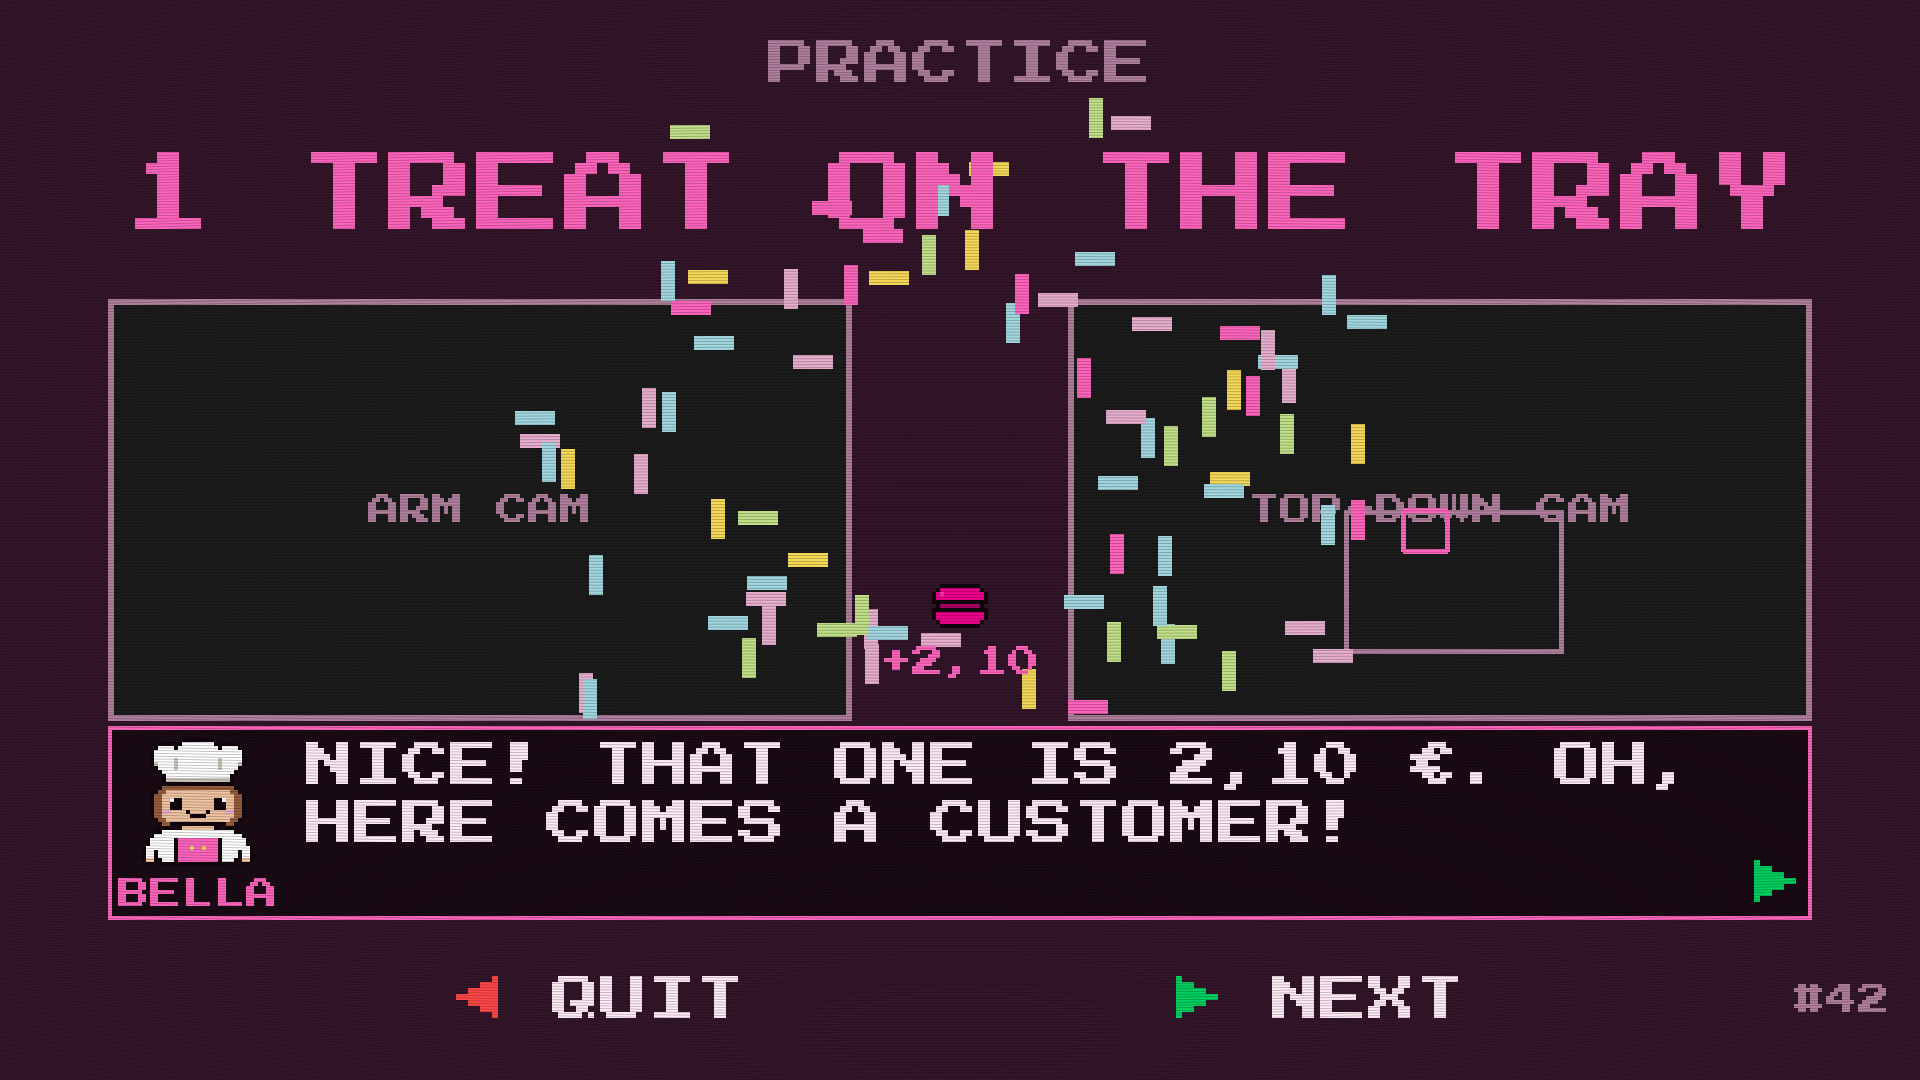
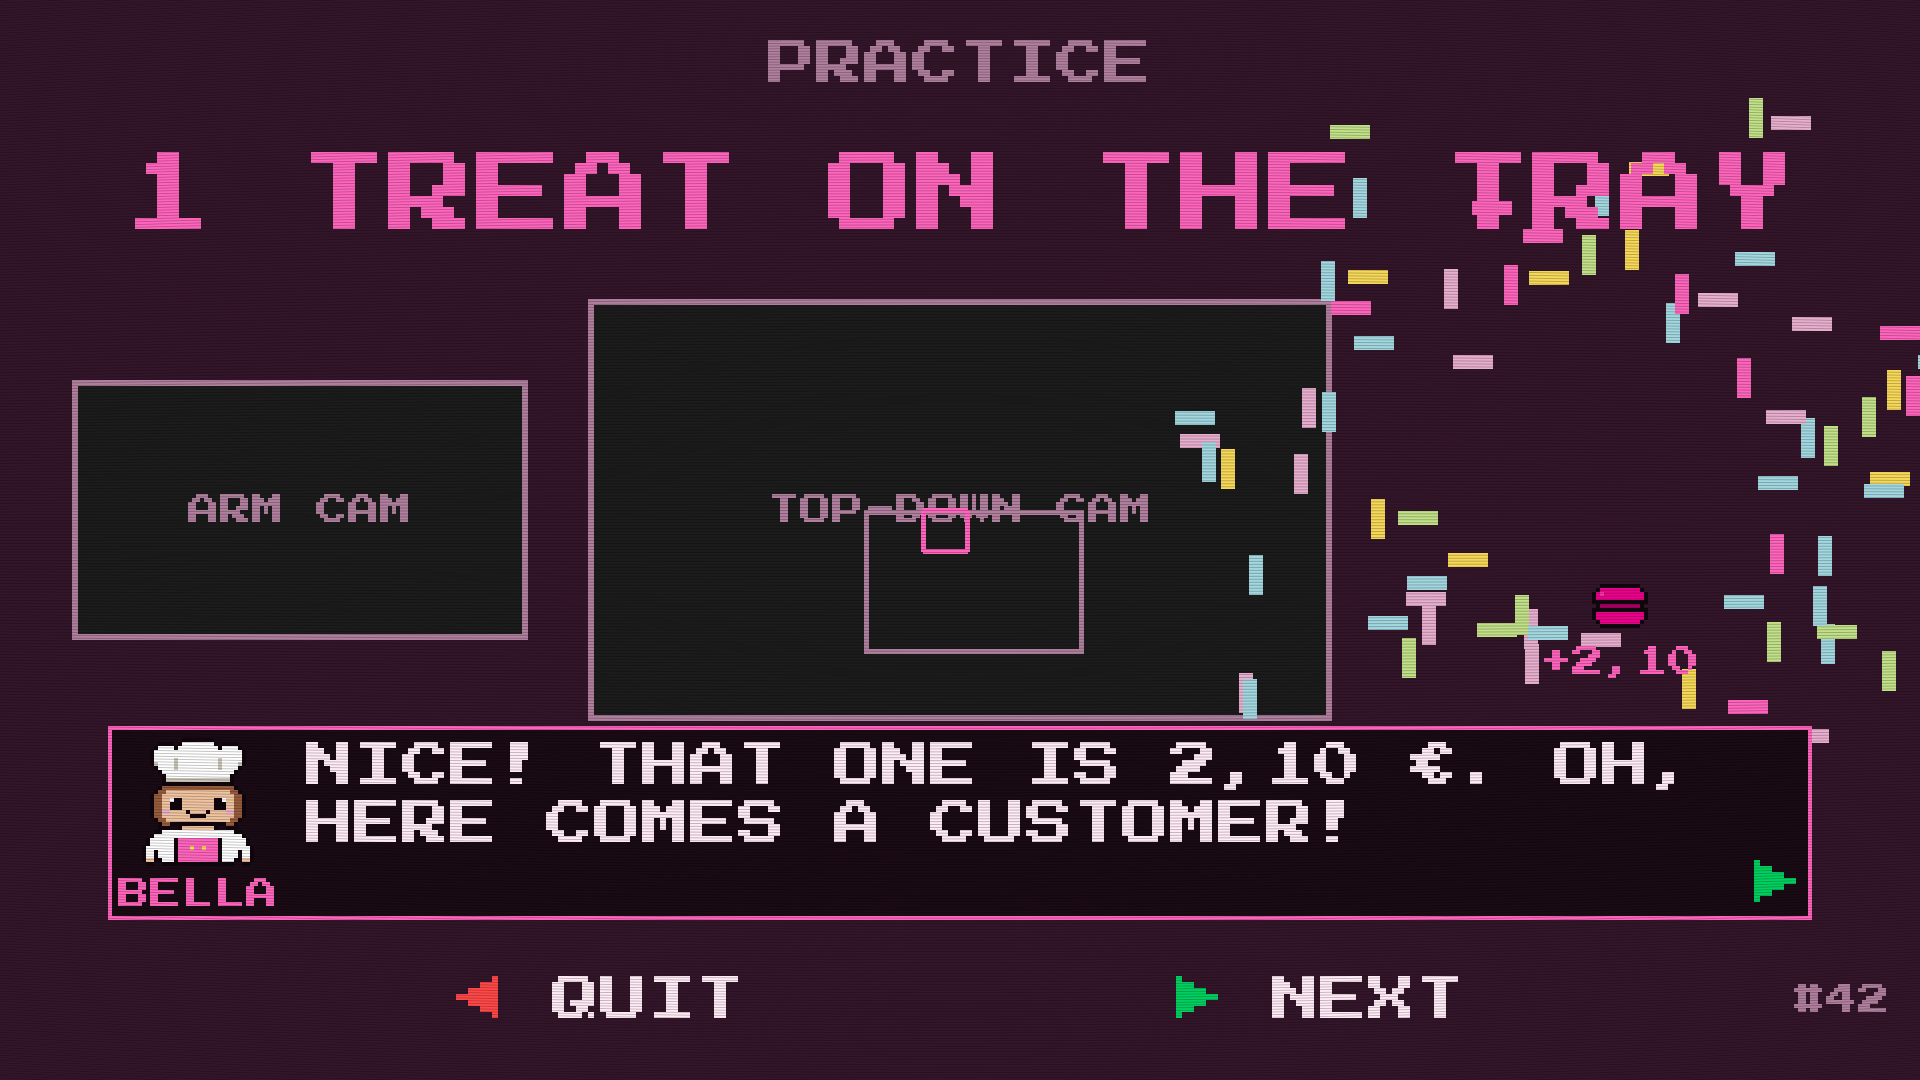
feat: top-down pane in the center, arm cam as a small inset (preview)

diff --git a/tools/shots.py b/tools/shots.py
@@ -28,7 +28,7 @@ import cv2                                                      # noqa: E402
 import pygame                                                   # noqa: E402
 from app import Ctx, crt_gain, px                               # noqa: E402
 from config import (WIDTH, HEIGHT, FONT_PATH, FONT_SIZES, CRT,  # noqa: E402
-                    BARREL_K, CAM_VIEW, GREY, BG, ROUND_SECONDS, FUSE_PULSE)
+                    BARREL_K, CAM_VIEWS, GREY, BG, ROUND_SECONDS, FUSE_PULSE)
 import scenes                                                   # noqa: E402
 from config import VALUES as V, SPRITE                           # noqa: E402
 
@@ -65,8 +65,8 @@ class StubView:
 
     det = None
 
-    def __init__(self, label, font):
-        self.surf = pygame.Surface(CAM_VIEW)
+    def __init__(self, label, font, size):
+        self.surf = pygame.Surface(size)
         self.surf.fill((28, 28, 28))
         pygame.draw.rect(self.surf, GREY, self.surf.get_rect(), 2)
         t = font.render(label, False, GREY)
@@ -89,8 +89,8 @@ def shots(out):
     fonts = {k: pygame.font.Font(FONT_PATH, s) for k, s in FONT_SIZES.items()}
     stub = Stub()
     ctx = Ctx(detector=stub, db=stub, fonts=fonts, music=stub, leds=stub,
-              views=(StubView("ARM CAM", fonts["tiny"]),
-                     StubView("TOP-DOWN CAM", fonts["tiny"])))
+              views=(StubView("ARM CAM", fonts["tiny"], CAM_VIEWS[0]),
+                     StubView("TOP-DOWN CAM", fonts["tiny"], CAM_VIEWS[1])))
 
     # The top-down pane gets the overlay, so the marker frames show up.
     ctx.views[1].det = True

diff --git a/game/scenes.py b/game/scenes.py
@@ -805,8 +805,8 @@ class GameScene(SceneBase):
     GOAL_W, GOAL_OVER = 9, 12   # width and overhang of the goal line
     STRIP_Y = 848               # price strip: sprites here, prices below
     LADDER_Y, LADDER_ROW = 355, 215   # order phase: ladder in two rows, pane area
-    GUEST = (960, 440)          # the guest stands between the panes
-    POP = (960, 610)            # ... and "+2,40" pops up under him
+    GUEST = (1620, 440)         # the guest stands right of the top-down pane
+    POP = (1620, 610)           # ... and "+2,40" pops up under him
 
     def __init__(self, ctx, player, name, tutorial=True):
         super().__init__(ctx)
@@ -1306,9 +1306,8 @@ if __name__ == "__main__":
                              leds=_s, views=(), lang="en"))()
 
     # Panes aren't a draw(), but they still count toward overlap.
-    panes = [("pane", x - CAM_VIEW[0]//2 - 4, y - CAM_VIEW[1]//2 - 4,
-                      x + CAM_VIEW[0]//2 + 4, y + CAM_VIEW[1]//2 + 4)
-             for x, y in CAM_POS]
+    panes = [("pane", x - w//2 - 4, y - h//2 - 4, x + w//2 + 4, y + h//2 + 4)
+             for (x, y), (w, h) in zip(CAM_POS, CAM_VIEWS)]
     G = GameScene
     bar = [("bar", G.BAR.x, G.BAR.y - G.GOAL_OVER, G.BAR.right, G.BAR.bottom + G.GOAL_OVER)]
     fuse_ = [("fuse", 0, 0, WIDTH, FUSE_W), ("fuse", 0, HEIGHT - FUSE_W, WIDTH, HEIGHT),

diff --git a/game/main.py b/game/main.py
@@ -4,7 +4,7 @@ import subprocess
 
 import cv2
 import pygame
-from config import (WIDTH, HEIGHT, FPS, FONT_PATH, FONT_SIZES, CAMERA,
+from config import (WIDTH, HEIGHT, FPS, FONT_PATH, FONT_SIZES, CAMERA, CAM_VIEWS,
                     CAM_INDEXES, CAM_ZOOM, CAM_FLIP, DEMO_VIDEO, CV_THREADS, BUTTONS,
                     CAM_STALE, CAM_CTRLS, TRAY_ROI, MAC)
 from app import Ctx, run_game
@@ -54,7 +54,8 @@ def main():
     # Left is plain passthrough, right is the same image plus overlay. Only
     # the top-down pane gets the detector.
     ctx = Ctx(detector=det, db=DB(), fonts=fonts, music=Music(), leds=Leds(),
-              views=(CameraView(cams[arm]), CameraView(cams[top], det)) if cams else (),
+              views=(CameraView(cams[arm], size=CAM_VIEWS[0]),
+                     CameraView(cams[top], det, size=CAM_VIEWS[1])) if cams else (),
               demo=VideoView(DEMO_VIDEO) if DEMO_VIDEO else None,
               buttons=Buttons() if BUTTONS else None)
     # Expo mode (pi/setup.sh): systemd sets RUNTIME_DIRECTORY and NOTIFY_SOCKET.

diff --git a/game/config.py b/game/config.py
@@ -382,7 +382,12 @@ except FileNotFoundError:
 # below, the timer pie in the 224 px gap between the two. 768 x 432 left the
 # pie 8 px from the frames and the instruction no room to its label.
 CAM_VIEW      = (736, 414)
-CAM_POS       = ((480, 510), (1440, 510))   # centers, left is the arm
+# Top-down is THE screen, the arm cam a small inset on the left (29.9., fair):
+# the arm cam is mirrored against the leader arm and people steered the
+# wrong way by it. 414 px is the height limit between header and bar, so
+# the top-down doesn't grow -- it moves to the center where the eye is.
+CAM_VIEWS     = ((448, 252), CAM_VIEW)     # arm, top-down
+CAM_POS       = ((300, 510), (960, 510))   # centers
 MARKER_HOLD   = 0.5    # hysteresis: marker keeps counting while occluded for less than this
 DETECT_HZ     = 15     # detection rate, decoupled from the 60 FPS
 # Detection window of the top-down camera, as fractions (x, y, width, height)
